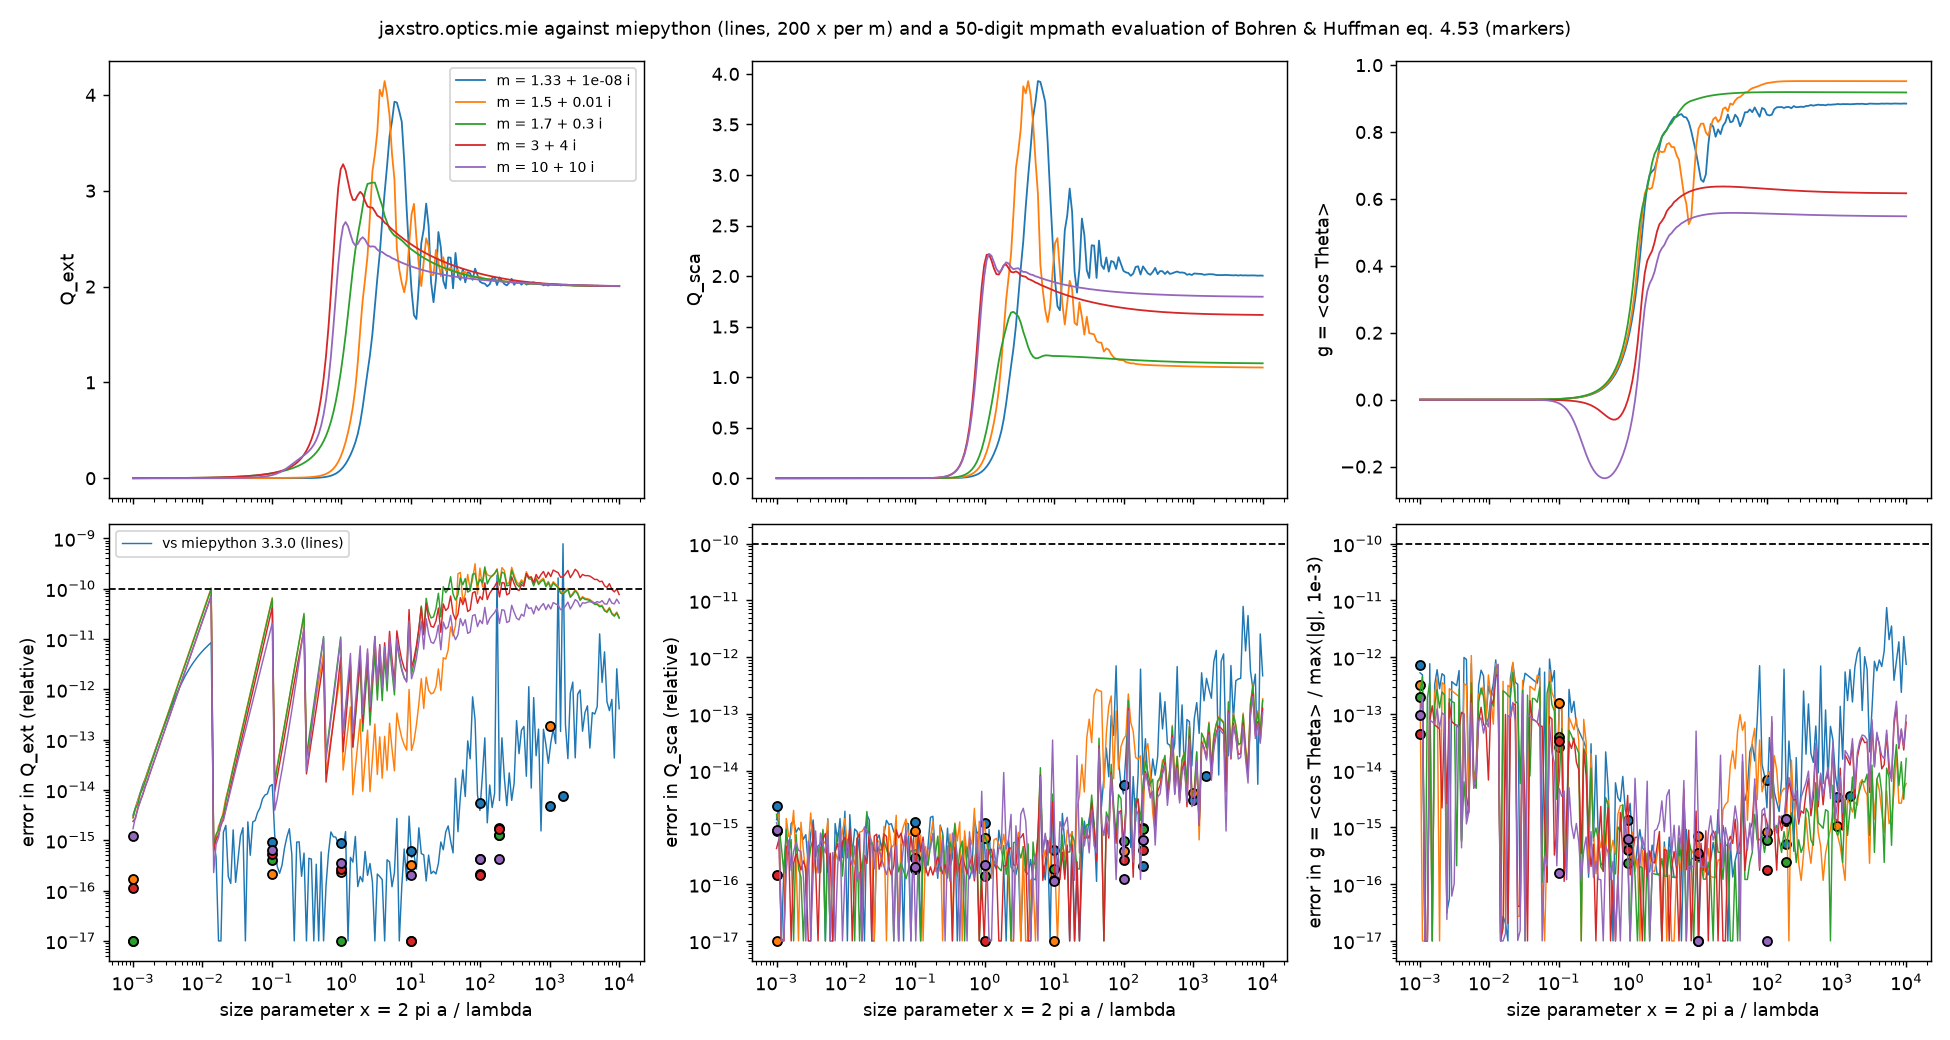
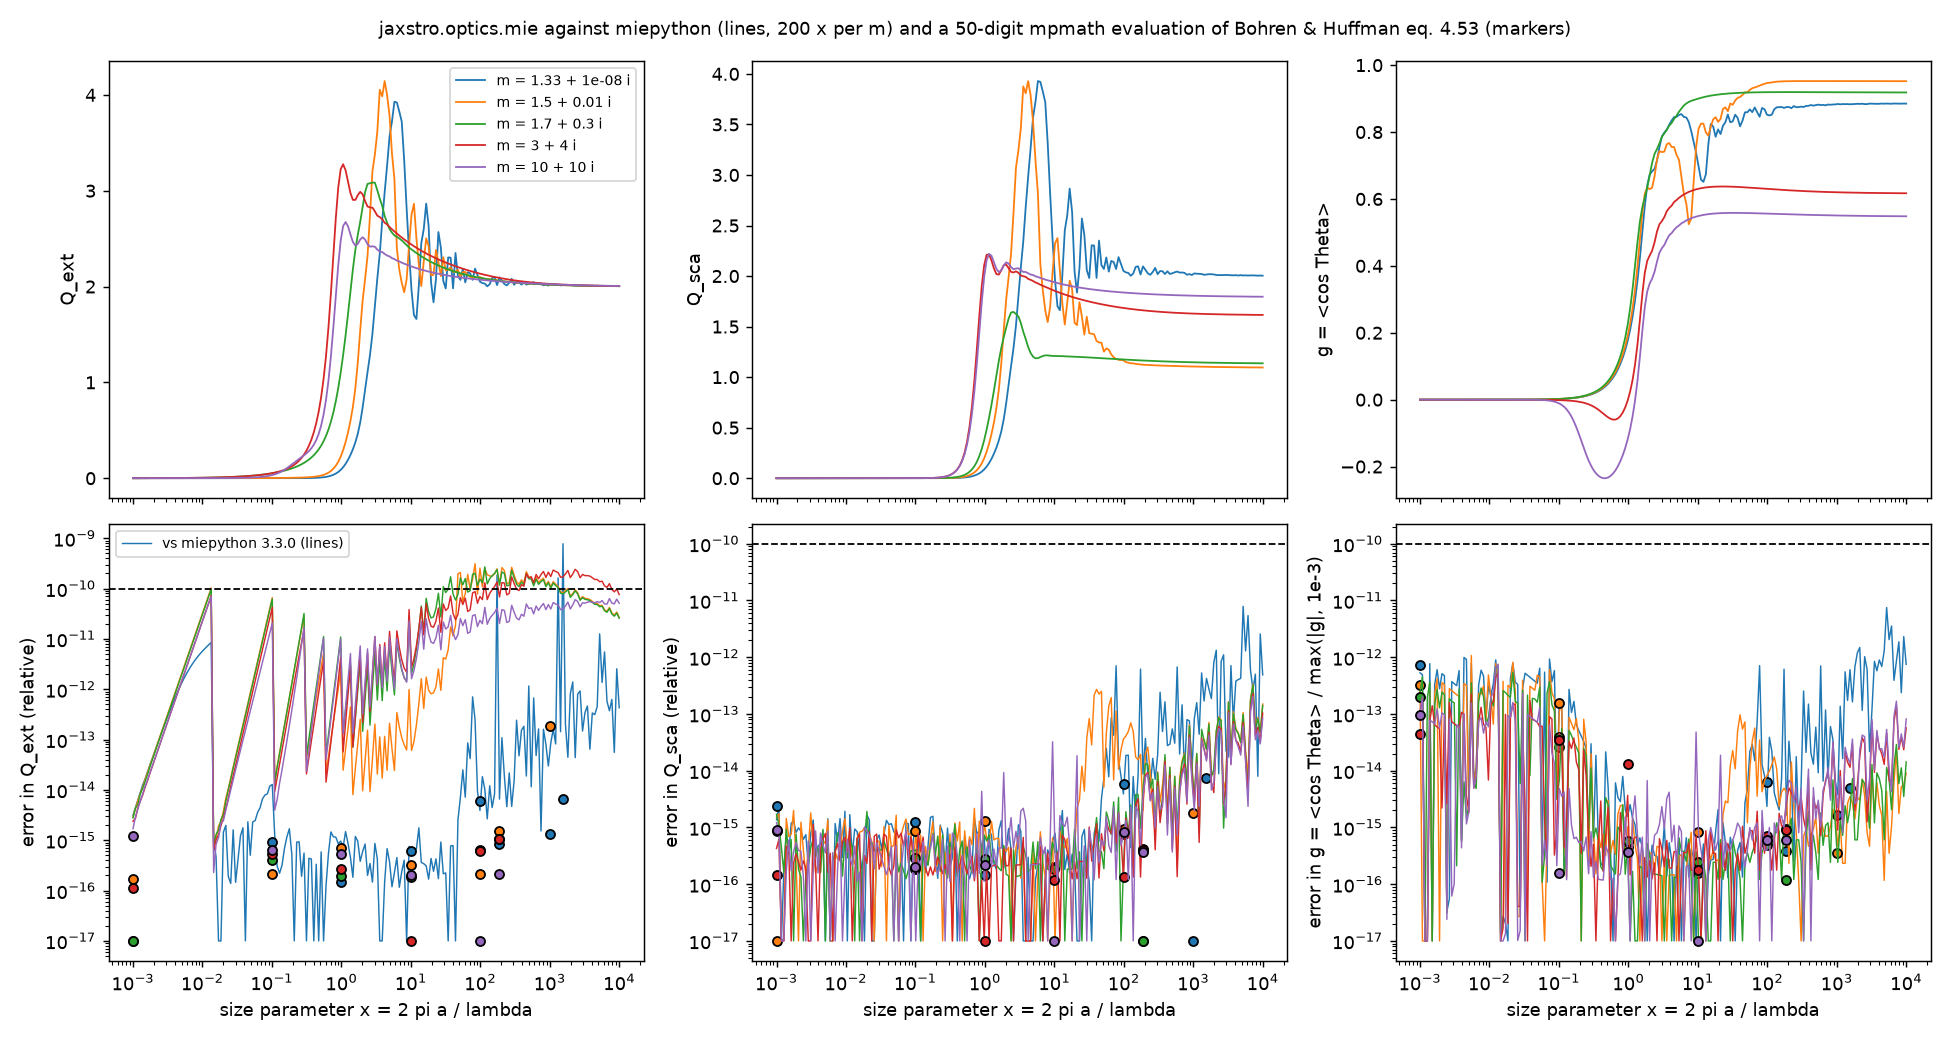
fix(optics): Mie psi_n by upward recurrence for n <= floor(x)
psi_n(x) was built for every n as R_n psi_{n-1} with R_n = psi_n / psi_{n-1}
from the downward recurrence. At a zero of psi_{n-1} with n < x (x = k pi for
n = 1, and the other zeros of j_n) R_n diverges and the product loses all
precision: Q_sca 48 % high and Q_ext 34 % high at x = 2 pi exactly
(m = 1.666 + 0.0311i: 2.129 against 1.435 at x = 2 pi -+ 1e-3). Found
2026-10-05 in radax's comparison with Draine's suvSil_81 table, whose grid
puts a = lambda (x = 2 pi) at every radius; the 50-digit and miepython sets
had no x on a zero.

Now: upward recurrence for n <= floor(x), stable there; downward ratio for
n > floor(x), where psi_n has no zero (first zero of j_n at
n + 1.86 n^{1/3} + ... > x). For x < 1 nothing changes.

New 50-digit cases at zeros (x = pi, 2 pi, 10 pi, first zeros of psi_1 and
psi_5; 3 m; scripts/build_mie_reference.py --zeros): before 4.8e-1, after
<= 6.7e-16. The original 33 cases: Q_ext 1.8e-13, Q_sca 7.4e-15, g 7.3e-13
(unchanged within the bound). Validation page, figure and test updated.

diff --git a/src/jaxstro/optics/mie.py b/src/jaxstro/optics/mie.py
@@ -1,10 +1,11 @@
 """Mie scattering by homogeneous spheres: Q_ext, Q_sca, Q_abs and g = <cos Theta>.
 
-Bohren & Huffman (1983, BHMIE) with two changes for accuracy: the logarithmic derivative
-D_n(m x) by downward recurrence from n_start = max(N_stop, |m x|) + 15 + 2 sqrt|m x| (the
-extra margin converges weakly absorbing large spheres), psi_n(x) from the downward ratio
-psi_n / psi_{n-1} (no cancellation at small x; as in Wiscombe 1980 and miepython), chi_n(x) by
-upward recurrence (stable: chi grows), and
+Bohren & Huffman (1983, BHMIE) with three changes for accuracy (the third, EXTRA_TERMS,
+below): the logarithmic derivative D_n(m x) by downward recurrence from
+n_start = max(N_stop, |m x|) + 15 + 2 sqrt|m x| (the extra margin converges weakly absorbing
+large spheres), psi_n(x) by upward recurrence for n <= floor(x) and from the downward ratio
+psi_n / psi_{n-1} for n > floor(x) (see below), chi_n(x) by upward recurrence (stable: chi
+grows), and
 
     a_n = [(D_n/m + n/x) psi_n - psi_{n-1}] / [(D_n/m + n/x) xi_n - xi_{n-1}]
     b_n = [(m D_n + n/x) psi_n - psi_{n-1}] / [(m D_n + n/x) xi_n - xi_{n-1}],  xi = psi - i chi,
@@ -81,6 +82,7 @@ def mie_efficiencies(
     m, x = m.reshape(-1), x.reshape(-1)
     y = m * x
     stop = jnp.floor(x + 4.0 * jnp.cbrt(x) + 2.0) + EXTRA_TERMS
+    upward = jnp.floor(x)  # psi by upward recurrence for n <= floor(x)
 
     # D_n(y) downward: carry from n_start to n_terms + 1, then keep D_n for n = n_terms..1.
     def down(d, n):
@@ -96,10 +98,14 @@ def mie_efficiencies(
     _, d_rev = jax.lax.scan(down_keep, d_top, jnp.arange(n_terms, 0, -1, dtype=jnp.float64))
     d_n = jnp.concatenate([d_rev[::-1][1:], d_top[None, :]], axis=0)  # D_1 .. D_{n_terms}
 
-    # psi_n(x) = R_n psi_{n-1}, with R_n = psi_n / psi_{n-1} by downward recurrence
-    # R_n = 1 / ((2n + 1)/x - R_{n+1}) (stable), from the same start. The upward three-term
-    # recurrence for psi cancels catastrophically for small x (relative error ~ 1/x^(2n)):
-    # g at x = 1e-3 was off by 3.8e-4 (2026-10-04).
+    # psi_n(x) for n > floor(x): R_n psi_{n-1}, with R_n = psi_n / psi_{n-1} by downward
+    # recurrence R_n = 1 / ((2n + 1)/x - R_{n+1}) (stable), from the same start. The upward
+    # three-term recurrence cancels there (relative error ~ 1/x^(2n) at small x: g at
+    # x = 1e-3 was off by 3.8e-4, 2026-10-04). For n <= floor(x) the upward recurrence is
+    # stable and is used instead: psi_{n-1} has zeros at x > n - 1 (x = k pi for n = 1), where
+    # R_n diverges and R_n psi_{n-1} loses all precision (Q_sca at x = 2 pi exactly was 2.129
+    # against 1.435 at x = 2 pi -+ 1e-3 for m = 1.666 + 0.0311i, 2026-10-05). psi_m has no
+    # zero at x for m >= floor(x): its first zero is at m + 1.86 m^{1/3} + ... > x.
     def ratio(r, n):
         return 1.0 / ((2.0 * n + 1.0) / x - r), None
 
@@ -116,7 +122,7 @@ def mie_efficiencies(
         psi0, psi1, chi0, chi1, a_prev, b_prev, ext, sca, asy = carry
         n, d, r = inputs
         active = n <= stop
-        psi = r * psi1
+        psi = jnp.where(n <= upward, (2.0 * n - 1.0) / x * psi1 - psi0, r * psi1)
         chi = (2.0 * n - 1.0) / x * chi1 - chi0
         xi, xi1 = psi - 1j * chi, psi1 - 1j * chi1
         da, db = d / m + n / x, m * d + n / x

diff --git a/scripts/build_mie_reference.py b/scripts/build_mie_reference.py
@@ -12,6 +12,9 @@ Writes tests/validation/data/optics/:
   (psi_n(z) = sqrt(pi z / 2) J_{n+1/2}(z), chi_n(x) = -sqrt(pi x / 2) Y_{n+1/2}(x)), no
   recurrences, summed to N = x + 4.05 x^{1/3} + 2 + 10 terms (adding 20 more changes Q_ext by
   < 1.4e-15). The independent reference for the 1e-10 tolerance (Anna, 2026-10-04).
+- mie_mpmath_zeros.json (--zeros; needs mpmath only): the same 50-digit evaluation at
+  zeros of psi_n(x) with n < x (x = pi, 2 pi, 10 pi; first zeros of psi_1 and psi_5),
+  where building psi_n from downward ratios alone loses all precision (2026-10-05).
 - mie_miepython_sweep.npz: miepython's efficiencies on 5 m x 200 log-spaced x in
   [1e-3, 1e4]; for |m| x < 0.1, where miepython switches to a small-sphere approximation,
   the series from miepython's own Mie coefficients. A cross-check over the whole domain;
@@ -26,7 +29,8 @@ from __future__ import annotations
 import json
 from pathlib import Path
 
-import miepython
+import sys
+
 import mpmath as mp
 import numpy as np
 
@@ -80,7 +84,23 @@ def _miepython_series(m: complex, x: float) -> tuple[float, float, float]:
     return float(q_ext), float(q_sca), float(4 / (x**2 * q_sca) * asy)
 
 
+def zeros() -> None:
+    mp.mp.dps = 50
+    xs = [mp.pi, 2 * mp.pi, 10 * mp.pi,
+          mp.findroot(lambda z: _psi(1, z), 4.49), mp.findroot(lambda z: _psi(5, z), 9.36)]
+    ms = [(1.666, 0.03114), (1.5, 0.01), (1.7, 0.3)]
+    # Evaluated at the float x that jaxstro sees (within ~1e-16 of the zero).
+    rows = [[mr, mi, float(x), *mie_mpmath(complex(mr, mi), float(x))] for mr, mi in ms for x in xs]
+    (OUT / "mie_mpmath_zeros.json").write_text(json.dumps({
+        "source": "scripts/build_mie_reference.py --zeros (Bohren & Huffman eq. 4.53, mpmath, 50 digits)",
+        "mpmath": mp.__version__, "columns": ["n", "k", "x", "q_ext", "q_sca", "g"], "rows": rows,
+    }, indent=1))
+    print(f"wrote {OUT / 'mie_mpmath_zeros.json'}: {len(rows)} cases")
+
+
 def main() -> None:
+    import miepython
+
     OUT.mkdir(parents=True, exist_ok=True)
     sample_x = [1e-3, 0.1, 1.0, 10.0, 100.0, 188.96523396912076]
     cases = [(mr, mi, x) for mr, mi in M_SET for x in sample_x]
@@ -102,4 +122,4 @@ def main() -> None:
 
 
 if __name__ == "__main__":
-    main()
+    zeros() if "--zeros" in sys.argv else main()

diff --git a/tests/validation/test_optics_mie_reference.py b/tests/validation/test_optics_mie_reference.py
@@ -3,6 +3,9 @@
 - 50-digit evaluation of Bohren & Huffman eq. 4.53 with mpmath (Bessel functions, no
   recurrences): the reference for the agreed tolerance. Max relative error in Q_ext and
   Q_sca <= 1e-10; |dg| <= 1e-10 max(|g|, 1e-3). Measured 2026-10-04: 1.9e-13, 5.8e-15, 7.3e-13.
+- The same 50-digit evaluation at zeros of psi_n(x) with n < x (x = pi, 2 pi, 10 pi; first
+  zeros of psi_1, psi_5; 3 m), same bounds. Building psi_n from downward ratios alone gave
+  Q_sca 48 % high at x = 2 pi (fixed 2026-10-05).
 - miepython 3.3.0 over 5 m x 200 x in [1e-3, 1e4]: cross-check of the whole domain. Q_sca
   and g to the same bounds (measured 7.9e-12, 7.5e-12); miepython truncates its series at
   x + 4.05 x^{1/3} + 2 terms, so its Q_ext differs from ours by up to 7.8e-10 for weakly
@@ -32,8 +35,9 @@ def _g_error(g, g_ref):
     return np.abs(g - g_ref) / np.maximum(np.abs(g_ref), 1e-3)
 
 
-def test_against_50_digit_reference():
-    rows = json.loads((DATA / "mie_mpmath_50digits.json").read_text())["rows"]
+@pytest.mark.parametrize("name", ["mie_mpmath_50digits.json", "mie_mpmath_zeros.json"])
+def test_against_50_digit_reference_cases(name):
+    rows = json.loads((DATA / name).read_text())["rows"]
     for n, k, x, q_ext, q_sca, g in rows:
         r = _run(complex(n, k), np.array([x]))
         assert abs(float(r.q_ext[0]) / q_ext - 1) <= 1e-10, (n, k, x)

diff --git a/docs/60-validation/numerical/mie-scattering.md b/docs/60-validation/numerical/mie-scattering.md
@@ -25,6 +25,7 @@ Data: `tests/validation/data/optics/` (built by `scripts/build_mie_reference.py`
 | Comparison | Q_ext | Q_sca | g (\|Δg\| / max(\|g\|, 1e-3)) |
 |---|---|---|---|
 | 50-digit mpmath, 33 cases (5 m; x = 1e-3, 0.1, 1, 10, 100, 189; x = 1000, 1552 for the weakly absorbing m) | ≤ 1.9e-13 | ≤ 5.8e-15 | ≤ 7.3e-13 |
+| 50-digit mpmath at zeros of ψ_n(x), n < x (x = π, 2π, 10π, first zeros of ψ_1 and ψ_5; 3 m), 15 cases | ≤ 4.4e-16 | ≤ 6.7e-16 | ≤ 6.7e-16 |
 | miepython 3.3.0, 1000 cases | ≤ 7.8e-10 (miepython's truncation; at x = 1552 the 50-digit value gives jaxstro 7.4e-15, miepython 7.8e-10) | ≤ 7.9e-12 | ≤ 7.5e-12 |
 
 The miepython Q_ext differences have a sawtooth in x that resets where miepython's integer
@@ -40,5 +41,6 @@ large x.
 | Issue | Measured effect | Change |
 |---|---|---|
 | D_n downward recurrence started at max(N_stop, \|m x\|) + 15 | Q_ext off by up to 9.7e-4 for m = 1.33 + 1e-8 i at large x | start + 2 √\|m x\| |
-| ψ_n by upward recurrence | cancels at small x: g off by 3.8e-4 at x = 1e-3 | ψ_n from the downward ratio ψ_n/ψ_{n−1} |
+| ψ_n by upward recurrence | cancels for n > x: g off by 3.8e-4 at x = 1e-3 | ψ_n from the downward ratio ψ_n/ψ_{n−1} for n > ⌊x⌋ (next row) |
 | series truncated at Wiscombe's x + 4 x^{1/3} + 2 | Q_ext depends linearly on the tail: off by up to 3.9e-10 (m = 1.5 + 0.01 i, x = 189) | 12 more terms; 4.9e-15 against the 50-digit reference |
+| ψ_n(x) from downward ratios for every n (the 2026-10-04 version of the previous row) | at zeros of ψ_{n−1} with n < x the ratio diverges and ψ_n loses all precision: Q_sca 48 % high at x = 2π; found 2026-10-05 by comparison with Draine's suvSil_81 table, whose grid puts a = λ (x = 2π) at every radius | upward recurrence for n ≤ ⌊x⌋ (stable there), downward ratio for n > ⌊x⌋ (no zeros); 6.7e-16 at the zeros |
